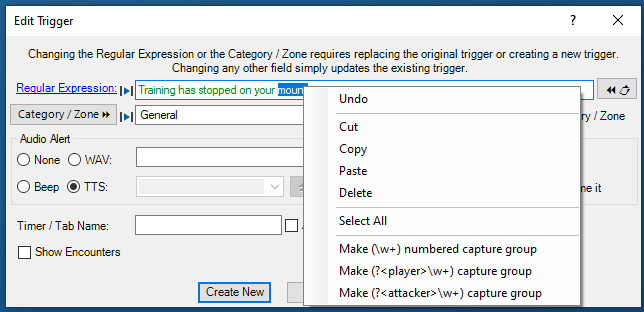
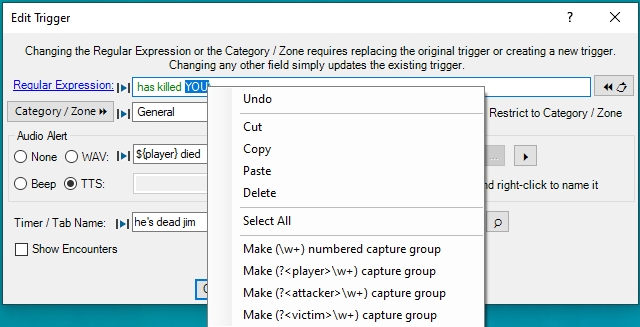
fix ${attacker} and ${victim} substitutions

Changed region(s): [[0.0, 0.0, 1.0, 1.0], [0.5, 0.4615, 0.5938, 0.4904], [0.5312, 0.5192, 0.5625, 0.5769]]

diff --git a/single_source/TriggerTree.cs b/single_source/TriggerTree.cs
@@ -3629,6 +3629,7 @@ namespace ACT_TriggerTree
                 contextMenuRegex.Items["MakeNumbered"].Enabled = false;
                 contextMenuRegex.Items["MakePlayer"].Enabled = false;
                 contextMenuRegex.Items["MakeAttacker"].Enabled = false;
+                contextMenuRegex.Items["MakeVictim"].Enabled = false;
             }
             else
             {
@@ -3638,6 +3639,7 @@ namespace ACT_TriggerTree
                 contextMenuRegex.Items["MakeNumbered"].Enabled = true;
                 contextMenuRegex.Items["MakePlayer"].Enabled = true;
                 contextMenuRegex.Items["MakeAttacker"].Enabled = true;
+                contextMenuRegex.Items["MakeVictim"].Enabled = true;
             }
 
             //can't paste if there is nothing in the clipboard
@@ -3701,6 +3703,12 @@ namespace ACT_TriggerTree
         {
             //use .Paste() to enable Undo
             textBoxRegex.Paste(@"(?<attacker>\w+)");
+        }
+
+        private void MakeVictimw_Click(object sender, EventArgs e)
+        {
+            //use .Paste() to enable Undo
+            textBoxRegex.Paste(@"(?<victim>\w+)");
         }
 
         private void textBoxRegex_MouseDoubleClick(object sender, MouseEventArgs e)
@@ -3993,8 +4001,13 @@ namespace ACT_TriggerTree
                     {
                         if (checkBoxTimer.Checked)
                         {
-                            string player = ActGlobals.charName;
-                            ActGlobals.oFormSpellTimers.NotifySpell(player, textBoxTimer.Text, false, player, true);
+                            string victim = match.Groups["victim"].Value.ToString();
+                            if(string.IsNullOrEmpty(victim))
+                                victim = ActGlobals.charName;
+                            string attacker = match.Groups["attacker"].Value.ToString();
+                            if (string.IsNullOrEmpty(attacker))
+                                attacker = victim;
+                            ActGlobals.oFormSpellTimers.NotifySpell(attacker, textBoxTimer.Text, false, victim, true);
                         }
                         if(checkBoxResultsTab.Checked)
                         {
@@ -4267,6 +4280,7 @@ namespace ACT_TriggerTree
             this.dataGridViewLines = new System.Windows.Forms.DataGridView();
             this.checkBoxLogLines = new System.Windows.Forms.CheckBox();
             this.treeViewEncounters = new System.Windows.Forms.TreeView();
+            this.textBoxFindLine = new ACT_TriggerTree.TextBoxX();
             this.groupBox1 = new System.Windows.Forms.GroupBox();
             this.pictureBoxTts = new System.Windows.Forms.PictureBox();
             this.label4 = new System.Windows.Forms.Label();
@@ -4279,6 +4293,7 @@ namespace ACT_TriggerTree
             this.splitContainerLog = new System.Windows.Forms.SplitContainer();
             this.panelLogLines = new System.Windows.Forms.Panel();
             this.panelLogFind = new System.Windows.Forms.Panel();
+            this.checkBoxFilterRegex = new System.Windows.Forms.CheckBox();
             this.label5 = new System.Windows.Forms.Label();
             this.panelRegex = new System.Windows.Forms.Panel();
             this.labelGridHelp = new System.Windows.Forms.Label();
@@ -4288,8 +4303,7 @@ namespace ACT_TriggerTree
             this.testWithRegularExpressionToolStripMenuItem = new System.Windows.Forms.ToolStripMenuItem();
             this.toolStripSeparator4 = new System.Windows.Forms.ToolStripSeparator();
             this.showTimeDifferencesMenuItem = new System.Windows.Forms.ToolStripMenuItem();
-            this.checkBoxFilterRegex = new System.Windows.Forms.CheckBox();
-            this.textBoxFindLine = new ACT_TriggerTree.TextBoxX();
+            this.MakeVictim = new System.Windows.Forms.ToolStripMenuItem();
             this.contextMenuRegex.SuspendLayout();
             ((System.ComponentModel.ISupportInitialize)(this.dataGridViewLines)).BeginInit();
             this.groupBox1.SuspendLayout();
@@ -4337,9 +4351,10 @@ namespace ACT_TriggerTree
             this.toolStripSeparator3,
             this.MakeNumbered,
             this.MakePlayer,
-            this.MakeAttacker});
+            this.MakeAttacker,
+            this.MakeVictim});
             this.contextMenuRegex.Name = "contextMenuStrip1";
-            this.contextMenuRegex.Size = new System.Drawing.Size(278, 220);
+            this.contextMenuRegex.Size = new System.Drawing.Size(278, 264);
             this.contextMenuRegex.Opening += new System.ComponentModel.CancelEventHandler(this.contextMenuStrip1_Opening);
             // 
             // Undo
@@ -4807,6 +4822,22 @@ namespace ACT_TriggerTree
             this.treeViewEncounters.TabIndex = 0;
             this.treeViewEncounters.AfterSelect += new System.Windows.Forms.TreeViewEventHandler(this.treeViewEncounters_AfterSelect);
             // 
+            // textBoxFindLine
+            // 
+            this.textBoxFindLine.Anchor = ((System.Windows.Forms.AnchorStyles)(((System.Windows.Forms.AnchorStyles.Top | System.Windows.Forms.AnchorStyles.Left) 
+            | System.Windows.Forms.AnchorStyles.Right)));
+            this.textBoxFindLine.ButtonTextClear = true;
+            this.helpProvider1.SetHelpString(this.textBoxFindLine, "Filter log lines to show only those containing this text (no wildcards). For exam" +
+        "ple: \'#\' to show colored lines. \'says,\' (include the comma) to show mob dialog.");
+            this.textBoxFindLine.Location = new System.Drawing.Point(47, 3);
+            this.textBoxFindLine.Name = "textBoxFindLine";
+            this.helpProvider1.SetShowHelp(this.textBoxFindLine, true);
+            this.textBoxFindLine.Size = new System.Drawing.Size(355, 20);
+            this.textBoxFindLine.TabIndex = 1;
+            this.toolTip1.SetToolTip(this.textBoxFindLine, "Show lines containing text. Examples: \'#\' for colored lines. \'says,\' for mob dial" +
+        "og.");
+            this.textBoxFindLine.TextChanged += new System.EventHandler(this.textBoxFindLine_TextChanged);
+            // 
             // groupBox1
             // 
             this.groupBox1.Anchor = ((System.Windows.Forms.AnchorStyles)(((System.Windows.Forms.AnchorStyles.Top | System.Windows.Forms.AnchorStyles.Left) 
@@ -4940,6 +4971,18 @@ namespace ACT_TriggerTree
             this.panelLogFind.Size = new System.Drawing.Size(487, 27);
             this.panelLogFind.TabIndex = 3;
             // 
+            // checkBoxFilterRegex
+            // 
+            this.checkBoxFilterRegex.Anchor = ((System.Windows.Forms.AnchorStyles)((System.Windows.Forms.AnchorStyles.Top | System.Windows.Forms.AnchorStyles.Right)));
+            this.checkBoxFilterRegex.AutoSize = true;
+            this.checkBoxFilterRegex.Location = new System.Drawing.Point(408, 4);
+            this.checkBoxFilterRegex.Name = "checkBoxFilterRegex";
+            this.checkBoxFilterRegex.Size = new System.Drawing.Size(72, 17);
+            this.checkBoxFilterRegex.TabIndex = 3;
+            this.checkBoxFilterRegex.Text = "By Regex";
+            this.checkBoxFilterRegex.UseVisualStyleBackColor = true;
+            this.checkBoxFilterRegex.CheckedChanged += new System.EventHandler(this.checkBoxFilterRegex_CheckedChanged);
+            // 
             // label5
             // 
             this.label5.AutoSize = true;
@@ -5038,33 +5081,12 @@ namespace ACT_TriggerTree
             this.showTimeDifferencesMenuItem.ToolTipText = "Histogram of the time difference between filtered log lines";
             this.showTimeDifferencesMenuItem.Click += new System.EventHandler(this.showTimeDifferencesToolStripMenuItem_Click);
             // 
-            // checkBoxFilterRegex
+            // MakeVictim
             // 
-            this.checkBoxFilterRegex.Anchor = ((System.Windows.Forms.AnchorStyles)((System.Windows.Forms.AnchorStyles.Top | System.Windows.Forms.AnchorStyles.Right)));
-            this.checkBoxFilterRegex.AutoSize = true;
-            this.checkBoxFilterRegex.Location = new System.Drawing.Point(408, 4);
-            this.checkBoxFilterRegex.Name = "checkBoxFilterRegex";
-            this.checkBoxFilterRegex.Size = new System.Drawing.Size(72, 17);
-            this.checkBoxFilterRegex.TabIndex = 3;
-            this.checkBoxFilterRegex.Text = "By Regex";
-            this.checkBoxFilterRegex.UseVisualStyleBackColor = true;
-            this.checkBoxFilterRegex.CheckedChanged += new System.EventHandler(this.checkBoxFilterRegex_CheckedChanged);
-            // 
-            // textBoxFindLine
-            // 
-            this.textBoxFindLine.Anchor = ((System.Windows.Forms.AnchorStyles)(((System.Windows.Forms.AnchorStyles.Top | System.Windows.Forms.AnchorStyles.Left) 
-            | System.Windows.Forms.AnchorStyles.Right)));
-            this.textBoxFindLine.ButtonTextClear = true;
-            this.helpProvider1.SetHelpString(this.textBoxFindLine, "Filter log lines to show only those containing this text (no wildcards). For exam" +
-        "ple: \'#\' to show colored lines. \'says,\' (include the comma) to show mob dialog.");
-            this.textBoxFindLine.Location = new System.Drawing.Point(47, 3);
-            this.textBoxFindLine.Name = "textBoxFindLine";
-            this.helpProvider1.SetShowHelp(this.textBoxFindLine, true);
-            this.textBoxFindLine.Size = new System.Drawing.Size(355, 20);
-            this.textBoxFindLine.TabIndex = 1;
-            this.toolTip1.SetToolTip(this.textBoxFindLine, "Show lines containing text. Examples: \'#\' for colored lines. \'says,\' for mob dial" +
-        "og.");
-            this.textBoxFindLine.TextChanged += new System.EventHandler(this.textBoxFindLine_TextChanged);
+            this.MakeVictim.Name = "MakeVictim";
+            this.MakeVictim.Size = new System.Drawing.Size(277, 22);
+            this.MakeVictim.Text = "Make (?<victim>\\w+) capture group";
+            this.MakeVictim.Click += new System.EventHandler(this.MakeVictimw_Click);
             // 
             // FormEditTrigger
             // 
@@ -5173,6 +5195,7 @@ namespace ACT_TriggerTree
         private System.Windows.Forms.PictureBox pictureBoxTimer;
         private TextBoxX textBoxFindLine;
         private System.Windows.Forms.CheckBox checkBoxFilterRegex;
+        private System.Windows.Forms.ToolStripMenuItem MakeVictim;
     }
 	#endregion FormEditTrigger.Designer.cs
 	#region FormEditSound.cs

diff --git a/FormEditTrigger.Designer.cs b/FormEditTrigger.Designer.cs
@@ -71,6 +71,7 @@
             this.dataGridViewLines = new System.Windows.Forms.DataGridView();
             this.checkBoxLogLines = new System.Windows.Forms.CheckBox();
             this.treeViewEncounters = new System.Windows.Forms.TreeView();
+            this.textBoxFindLine = new ACT_TriggerTree.TextBoxX();
             this.groupBox1 = new System.Windows.Forms.GroupBox();
             this.pictureBoxTts = new System.Windows.Forms.PictureBox();
             this.label4 = new System.Windows.Forms.Label();
@@ -83,6 +84,7 @@
             this.splitContainerLog = new System.Windows.Forms.SplitContainer();
             this.panelLogLines = new System.Windows.Forms.Panel();
             this.panelLogFind = new System.Windows.Forms.Panel();
+            this.checkBoxFilterRegex = new System.Windows.Forms.CheckBox();
             this.label5 = new System.Windows.Forms.Label();
             this.panelRegex = new System.Windows.Forms.Panel();
             this.labelGridHelp = new System.Windows.Forms.Label();
@@ -92,8 +94,7 @@
             this.testWithRegularExpressionToolStripMenuItem = new System.Windows.Forms.ToolStripMenuItem();
             this.toolStripSeparator4 = new System.Windows.Forms.ToolStripSeparator();
             this.showTimeDifferencesMenuItem = new System.Windows.Forms.ToolStripMenuItem();
-            this.checkBoxFilterRegex = new System.Windows.Forms.CheckBox();
-            this.textBoxFindLine = new ACT_TriggerTree.TextBoxX();
+            this.MakeVictim = new System.Windows.Forms.ToolStripMenuItem();
             this.contextMenuRegex.SuspendLayout();
             ((System.ComponentModel.ISupportInitialize)(this.dataGridViewLines)).BeginInit();
             this.groupBox1.SuspendLayout();
@@ -141,9 +142,10 @@
             this.toolStripSeparator3,
             this.MakeNumbered,
             this.MakePlayer,
-            this.MakeAttacker});
+            this.MakeAttacker,
+            this.MakeVictim});
             this.contextMenuRegex.Name = "contextMenuStrip1";
-            this.contextMenuRegex.Size = new System.Drawing.Size(278, 220);
+            this.contextMenuRegex.Size = new System.Drawing.Size(278, 264);
             this.contextMenuRegex.Opening += new System.ComponentModel.CancelEventHandler(this.contextMenuStrip1_Opening);
             // 
             // Undo
@@ -611,6 +613,22 @@
             this.treeViewEncounters.TabIndex = 0;
             this.treeViewEncounters.AfterSelect += new System.Windows.Forms.TreeViewEventHandler(this.treeViewEncounters_AfterSelect);
             // 
+            // textBoxFindLine
+            // 
+            this.textBoxFindLine.Anchor = ((System.Windows.Forms.AnchorStyles)(((System.Windows.Forms.AnchorStyles.Top | System.Windows.Forms.AnchorStyles.Left) 
+            | System.Windows.Forms.AnchorStyles.Right)));
+            this.textBoxFindLine.ButtonTextClear = true;
+            this.helpProvider1.SetHelpString(this.textBoxFindLine, "Filter log lines to show only those containing this text (no wildcards). For exam" +
+        "ple: \'#\' to show colored lines. \'says,\' (include the comma) to show mob dialog.");
+            this.textBoxFindLine.Location = new System.Drawing.Point(47, 3);
+            this.textBoxFindLine.Name = "textBoxFindLine";
+            this.helpProvider1.SetShowHelp(this.textBoxFindLine, true);
+            this.textBoxFindLine.Size = new System.Drawing.Size(355, 20);
+            this.textBoxFindLine.TabIndex = 1;
+            this.toolTip1.SetToolTip(this.textBoxFindLine, "Show lines containing text. Examples: \'#\' for colored lines. \'says,\' for mob dial" +
+        "og.");
+            this.textBoxFindLine.TextChanged += new System.EventHandler(this.textBoxFindLine_TextChanged);
+            // 
             // groupBox1
             // 
             this.groupBox1.Anchor = ((System.Windows.Forms.AnchorStyles)(((System.Windows.Forms.AnchorStyles.Top | System.Windows.Forms.AnchorStyles.Left) 
@@ -744,6 +762,18 @@
             this.panelLogFind.Size = new System.Drawing.Size(487, 27);
             this.panelLogFind.TabIndex = 3;
             // 
+            // checkBoxFilterRegex
+            // 
+            this.checkBoxFilterRegex.Anchor = ((System.Windows.Forms.AnchorStyles)((System.Windows.Forms.AnchorStyles.Top | System.Windows.Forms.AnchorStyles.Right)));
+            this.checkBoxFilterRegex.AutoSize = true;
+            this.checkBoxFilterRegex.Location = new System.Drawing.Point(408, 4);
+            this.checkBoxFilterRegex.Name = "checkBoxFilterRegex";
+            this.checkBoxFilterRegex.Size = new System.Drawing.Size(72, 17);
+            this.checkBoxFilterRegex.TabIndex = 3;
+            this.checkBoxFilterRegex.Text = "By Regex";
+            this.checkBoxFilterRegex.UseVisualStyleBackColor = true;
+            this.checkBoxFilterRegex.CheckedChanged += new System.EventHandler(this.checkBoxFilterRegex_CheckedChanged);
+            // 
             // label5
             // 
             this.label5.AutoSize = true;
@@ -842,33 +872,12 @@
             this.showTimeDifferencesMenuItem.ToolTipText = "Histogram of the time difference between filtered log lines";
             this.showTimeDifferencesMenuItem.Click += new System.EventHandler(this.showTimeDifferencesToolStripMenuItem_Click);
             // 
-            // checkBoxFilterRegex
+            // MakeVictim
             // 
-            this.checkBoxFilterRegex.Anchor = ((System.Windows.Forms.AnchorStyles)((System.Windows.Forms.AnchorStyles.Top | System.Windows.Forms.AnchorStyles.Right)));
-            this.checkBoxFilterRegex.AutoSize = true;
-            this.checkBoxFilterRegex.Location = new System.Drawing.Point(408, 4);
-            this.checkBoxFilterRegex.Name = "checkBoxFilterRegex";
-            this.checkBoxFilterRegex.Size = new System.Drawing.Size(72, 17);
-            this.checkBoxFilterRegex.TabIndex = 3;
-            this.checkBoxFilterRegex.Text = "By Regex";
-            this.checkBoxFilterRegex.UseVisualStyleBackColor = true;
-            this.checkBoxFilterRegex.CheckedChanged += new System.EventHandler(this.checkBoxFilterRegex_CheckedChanged);
-            // 
-            // textBoxFindLine
-            // 
-            this.textBoxFindLine.Anchor = ((System.Windows.Forms.AnchorStyles)(((System.Windows.Forms.AnchorStyles.Top | System.Windows.Forms.AnchorStyles.Left) 
-            | System.Windows.Forms.AnchorStyles.Right)));
-            this.textBoxFindLine.ButtonTextClear = true;
-            this.helpProvider1.SetHelpString(this.textBoxFindLine, "Filter log lines to show only those containing this text (no wildcards). For exam" +
-        "ple: \'#\' to show colored lines. \'says,\' (include the comma) to show mob dialog.");
-            this.textBoxFindLine.Location = new System.Drawing.Point(47, 3);
-            this.textBoxFindLine.Name = "textBoxFindLine";
-            this.helpProvider1.SetShowHelp(this.textBoxFindLine, true);
-            this.textBoxFindLine.Size = new System.Drawing.Size(355, 20);
-            this.textBoxFindLine.TabIndex = 1;
-            this.toolTip1.SetToolTip(this.textBoxFindLine, "Show lines containing text. Examples: \'#\' for colored lines. \'says,\' for mob dial" +
-        "og.");
-            this.textBoxFindLine.TextChanged += new System.EventHandler(this.textBoxFindLine_TextChanged);
+            this.MakeVictim.Name = "MakeVictim";
+            this.MakeVictim.Size = new System.Drawing.Size(277, 22);
+            this.MakeVictim.Text = "Make (?<victim>\\w+) capture group";
+            this.MakeVictim.Click += new System.EventHandler(this.MakeVictimw_Click);
             // 
             // FormEditTrigger
             // 
@@ -977,6 +986,7 @@
         private System.Windows.Forms.PictureBox pictureBoxTimer;
         private TextBoxX textBoxFindLine;
         private System.Windows.Forms.CheckBox checkBoxFilterRegex;
+        private System.Windows.Forms.ToolStripMenuItem MakeVictim;
     }
 }
 

diff --git a/FormEditTrigger.cs b/FormEditTrigger.cs
@@ -669,6 +669,7 @@ namespace ACT_TriggerTree
                 contextMenuRegex.Items["MakeNumbered"].Enabled = false;
                 contextMenuRegex.Items["MakePlayer"].Enabled = false;
                 contextMenuRegex.Items["MakeAttacker"].Enabled = false;
+                contextMenuRegex.Items["MakeVictim"].Enabled = false;
             }
             else
             {
@@ -678,6 +679,7 @@ namespace ACT_TriggerTree
                 contextMenuRegex.Items["MakeNumbered"].Enabled = true;
                 contextMenuRegex.Items["MakePlayer"].Enabled = true;
                 contextMenuRegex.Items["MakeAttacker"].Enabled = true;
+                contextMenuRegex.Items["MakeVictim"].Enabled = true;
             }
 
             //can't paste if there is nothing in the clipboard
@@ -741,6 +743,12 @@ namespace ACT_TriggerTree
         {
             //use .Paste() to enable Undo
             textBoxRegex.Paste(@"(?<attacker>\w+)");
+        }
+
+        private void MakeVictimw_Click(object sender, EventArgs e)
+        {
+            //use .Paste() to enable Undo
+            textBoxRegex.Paste(@"(?<victim>\w+)");
         }
 
         private void textBoxRegex_MouseDoubleClick(object sender, MouseEventArgs e)
@@ -1033,8 +1041,13 @@ namespace ACT_TriggerTree
                     {
                         if (checkBoxTimer.Checked)
                         {
-                            string player = ActGlobals.charName;
-                            ActGlobals.oFormSpellTimers.NotifySpell(player, textBoxTimer.Text, false, player, true);
+                            string victim = match.Groups["victim"].Value.ToString();
+                            if(string.IsNullOrEmpty(victim))
+                                victim = ActGlobals.charName;
+                            string attacker = match.Groups["attacker"].Value.ToString();
+                            if (string.IsNullOrEmpty(attacker))
+                                attacker = victim;
+                            ActGlobals.oFormSpellTimers.NotifySpell(attacker, textBoxTimer.Text, false, victim, true);
                         }
                         if(checkBoxResultsTab.Checked)
                         {

diff --git a/README.md b/README.md
@@ -16,16 +16,9 @@ Additional features of the plugin:
 * When entering a zone in game, if there is a Category that matches the zone name, that Category is automatically selected.
 * The __Find__ boxes at the top of the Category and Trigger panes provide incremental searches.
 
-### Version 1.6.2 Changes:
-* In the _Show Encounters_ list in the _Edit Trigger_ dialog, fix testing and filtering for regular expressions containing a ^ start of string anchor to match how the ACT English Parser implements it (i.e. the start of the string is after the timestamp).
-* Fix sharing from the [Share Dialog](#share-dialog) __[Macro]__ button when the recipient does not have the sender on their whitelist.
-* Since EQII seems commited to adding [color codes to zone names](#color-coded-zone-name), some tweaks to handling them:
-    * Move the _Enable on zone-in_ [up one menu level](#category-menus) to be more accessible.
-    * Automatically strip the color code when using the [Category/Zone>>] button in the [_Edit Trigger_ dialog](#edit-all-fields).
-    * When creating a new trigger in a new category using the _Edit Trigger_ dialog and you are currently in a color-coded zone, strip the color code off the _Category Zone_ and set the _Enable on zone-in_ for the category.
-    * When creating a new trigger for a color-coded zone, set the _Restrict to Category / Zone_ checkbox appropriately depending upon whether you are currently in that zone.
-    * When sharing a trigger via EQII macros using the category's _Share Dialog_ with the _Alt Encoding_ checkbox checked, also share the _Enable on zone-in_ setting for the category. 
-
+### Version 1.6.3 Changes:
+* Fix zone instance number parsing.
+* Fix $\{attacker} and $\{victim} capture group replacement when testing a trigger that starts a spell timer.
 
 ## Editing Triggers
 Trigger details are available by clicking the + next to the trigger.  A context menu is provided via a right-click on a trigger, as shown below.
@@ -56,7 +49,7 @@ Features of the edit trigger dialog:
 	![Regex Context](images/regex-context.png)
 
 * Capture groups in the __Regular Expression__ are automatically added to the drop down list next to the TTS button (e,g, the 1 shown in the [Edit All screenshot](#edit-all-fields) which represents the __(\d+)__ in the expression). They may be inserted into the TTS expression via the insert button to the right of the drop down. 
-	* Note that named capture groups such as `(?<player>\w+)` cannot be saved to an EQII macro due to the brackets.
+	* Note that named capture groups such as `(?<player>\w+)` cannot be saved to an EQII macro due to the brackets unless the _Alt Encoding_ checkbox in the __Share Dialog__ is used.
 
 ### Results Tabs
 When the trigger's __Add Results tab__ checkbox is checked, ACT adds a tab next to the __Triggers__ tab. The tab is named using the __Timer / Tab Name__ and lists data from log lines that match the trigger.
